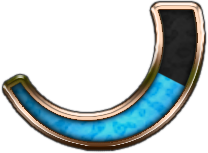
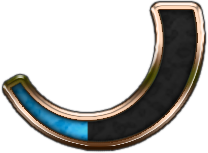
画像名前変更

Changed region(s): [[0.4038, 0.4706, 0.8942, 0.9412]]

diff --git a/public/css/battle.css b/public/css/battle.css
@@ -196,9 +196,9 @@ body{}
 /* スキル枠 */
 .battle_player_skill_frame{
 	position: absolute;
-    top: 50%;
-    right: 1%;
-    width: 11%;
+    top: 30%;
+    right: 0%;
+    width: 21%;
     z-index: 1;
 }
 /* スキルターンフォント */

diff --git a/config/chara.php b/config/chara.php
@@ -48,28 +48,28 @@ return  [
     ],
 	'skill' => [
 		1 => ['damage' => 1.5,
-				'turn'	=> 5,
+				'turn'	=> 3,
 				'effect' => '敵に150%のダメージを与える'
 			],
 		2 => ['recovery' => 0.3,
-				'turn'	=> 5,
+				'turn'	=> 3,
 				'effect' => '自分のHP30%回復'
 			],
 		3 => ['gooUpAtk' => 1.5,
-				'turn'	=> 5,
+				'turn'	=> 3,
 				'effect' => 'グーの攻撃力1.5倍'
 			],
 		4 => ['choUpAtk' => 2.5,
-				'turn'	=> 1,
+				'turn'	=> 3,
 				'effect' => 'チョキの攻撃力2.5倍'
 			],
 		5 => ['paaUpAtk' => 2,
-				'turn'	=> 2,
+				'turn'	=> 3,
 				'effect' => 'パーの攻撃力2倍'
 			],
 		6 => [
 				'ratio' => 2,
-				'turn'	=> 2,
+				'turn'	=> 3,
 				'effect' => '次の攻撃が二回攻撃'
 			],
 	],

diff --git a/resources/views/battle.blade.php b/resources/views/battle.blade.php
@@ -240,7 +240,7 @@
 			</a>
 			@else
 				{{-- スキルターン表示枠 --}}
-				<img src="{{IMG_URL}}battle/rarity_bg.png" class="battle_player_skill_frame">
+				<img src="{{IMG_URL}}battle/gage.png" class="battle_player_skill_frame">
 				{{-- スキルターン --}}
 				<?php $count = $viewData['charaData']['drawCount']; ?>
 				<font class = "battle_player_skill_turn">{{$count}}</font>
